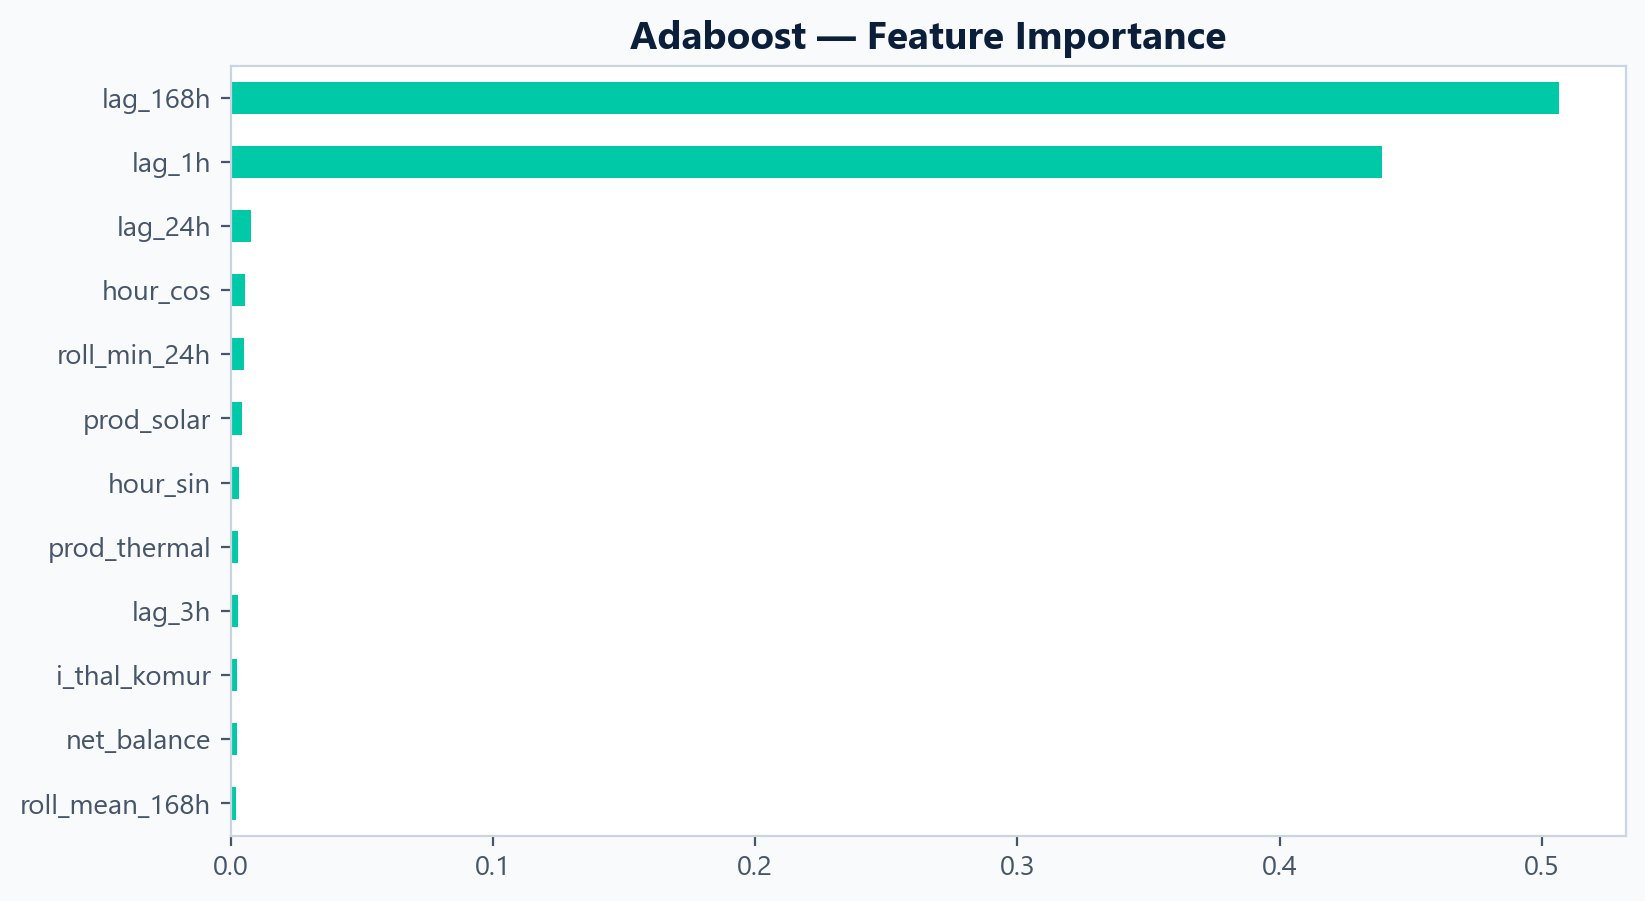
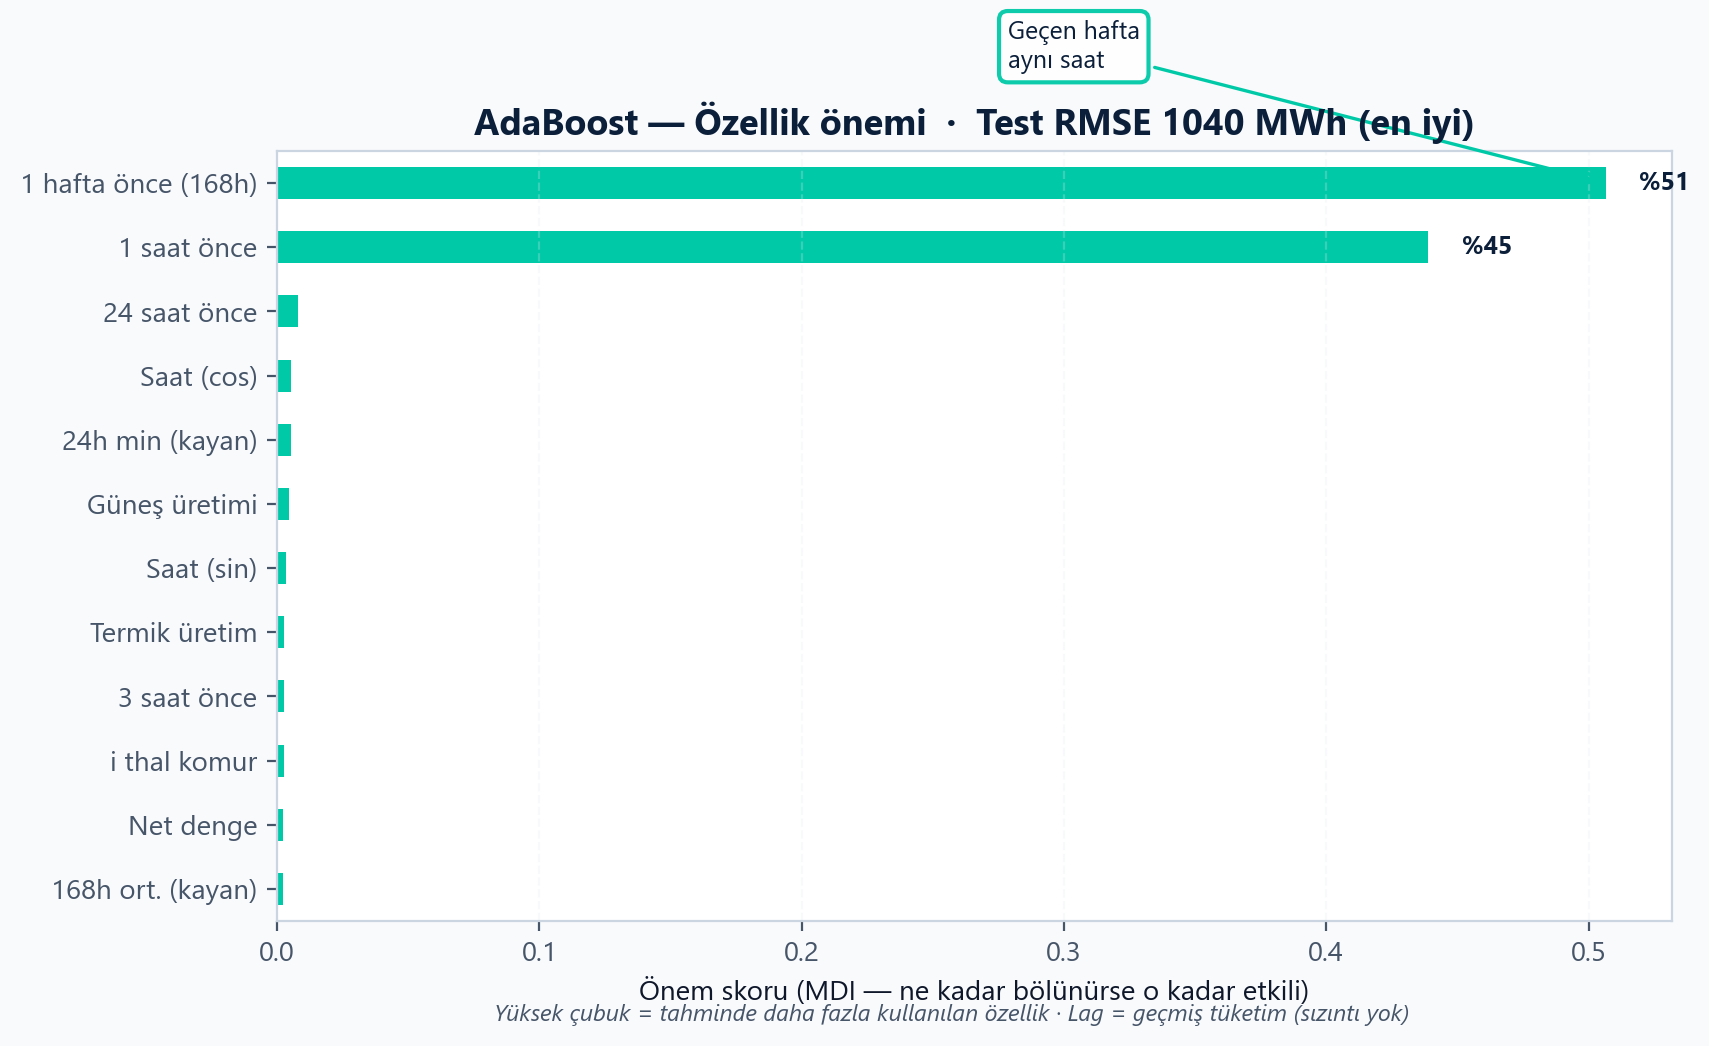
feat: annotated importance figures, combined model slide, restore assets

diff --git a/scripts/regenerate_slide_figures.py b/scripts/regenerate_slide_figures.py
@@ -23,6 +23,91 @@ from mee344_g05.ppt_theme import MPL_RC, NAVY, SKY, TEAL, AMBER, OFF_WHITE
 
 OUT = FIGURES_DIR / "presentation"
 
+# Sunum için okunabilir Türkçe etiketler
+FEATURE_LABELS = {
+    "lag_168h": "1 hafta önce (168h)",
+    "lag_1h": "1 saat önce",
+    "lag_2h": "2 saat önce",
+    "lag_3h": "3 saat önce",
+    "lag_24h": "24 saat önce",
+    "hour_cos": "Saat (cos)",
+    "hour_sin": "Saat (sin)",
+    "dow_sin": "Gün (sin)",
+    "dow_cos": "Gün (cos)",
+    "doy_sin": "Yıl günü (sin)",
+    "prod_solar": "Güneş üretimi",
+    "prod_thermal": "Termik üretim",
+    "prod_wind": "Rüzgar üretimi",
+    "roll_min_24h": "24h min (kayan)",
+    "roll_mean_24h": "24h ort. (kayan)",
+    "roll_mean_168h": "168h ort. (kayan)",
+    "ithal_komur": "İthal kömür",
+    "net_balance": "Net denge",
+    "is_weekend": "Hafta sonu",
+    "is_holiday": "Resmi tatil",
+}
+
+
+def _label_feature(name: str) -> str:
+    return FEATURE_LABELS.get(name, name.replace("_", " "))
+
+
+def _annotate_importance(ax, imp: pd.Series, color: str) -> None:
+    """Üst çubuklara değer ve kısa açıklama yaz."""
+    top = imp.sort_values(ascending=False).head(2)
+    for feat, val in top.items():
+        y_idx = list(imp.index).index(feat)
+        pct = val / imp.sum() * 100
+        ax.text(
+            val + imp.max() * 0.02,
+            y_idx,
+            f" %{pct:.0f}",
+            va="center",
+            fontsize=9,
+            fontweight="bold",
+            color=NAVY,
+        )
+    # En baskın özellik için ok + kutu
+    top_feat = top.index[0]
+    y0 = list(imp.index).index(top_feat)
+    note = "Geçen hafta\naynı saat" if top_feat == "lag_168h" else _label_feature(top_feat)
+    ax.annotate(
+        note,
+        xy=(top.iloc[0], y0),
+        xytext=(top.iloc[0] * 0.55, y0 + 1.8),
+        fontsize=9,
+        color=NAVY,
+        bbox=dict(boxstyle="round,pad=0.35", fc="white", ec=color, lw=1.5, alpha=0.95),
+        arrowprops=dict(arrowstyle="->", color=color, lw=1.2),
+    )
+
+
+def plot_importance(key: str, out: str, title_tr: str, bar_color: str) -> None:
+    b = joblib.load(MODELS_DIR / f"{key}.joblib")
+    m = b["model"]
+    cols = b["feature_columns"]
+    if not hasattr(m, "feature_importances_"):
+        return
+    imp_raw = pd.Series(m.feature_importances_, index=cols).sort_values().tail(12)
+    imp = imp_raw.rename(index=_label_feature)
+    fig, ax = plt.subplots(figsize=(9, 5))
+    imp.plot(kind="barh", ax=ax, color=bar_color)
+    ax.set_title(title_tr, fontweight="bold", fontsize=13)
+    ax.set_xlabel("Önem skoru (MDI — ne kadar bölünürse o kadar etkili)", fontsize=10)
+    ax.set_ylabel("")
+    ax.grid(axis="x", alpha=0.25, linestyle="--")
+    _annotate_importance(ax, imp_raw, bar_color)
+    fig.text(
+        0.5,
+        0.01,
+        "Yüksek çubuk = tahminde daha fazla kullanılan özellik · Lag = geçmiş tüketim (sızıntı yok)",
+        ha="center",
+        fontsize=8.5,
+        color="#475569",
+        style="italic",
+    )
+    savefig(out)
+
 
 def apply_style():
     plt.rcParams.update(MPL_RC)
@@ -123,17 +208,57 @@ def main():
     fig.suptitle("Test Set — Actual vs Predicted", fontweight="bold")
     savefig("actual_vs_pred_both.png")
 
-    # 7 Importance
-    for key, out in [("decision_tree", "dt_importance.png"), ("adaboost", "ada_importance.png")]:
+    # 7 Importance (Türkçe etiket + açıklama)
+    metrics = json.loads((REPORTS_DIR / "metrics.json").read_text(encoding="utf-8"))
+    dt_rmse = metrics["test"]["decision_tree"]["rmse"]
+    ada_rmse = metrics["test"]["adaboost"]["rmse"]
+    plot_importance(
+        "decision_tree",
+        "dt_importance.png",
+        f"Decision Tree — Özellik önemi  ·  Test RMSE {dt_rmse:.0f} MWh",
+        SKY,
+    )
+    plot_importance(
+        "adaboost",
+        "ada_importance.png",
+        f"AdaBoost — Özellik önemi  ·  Test RMSE {ada_rmse:.0f} MWh (en iyi)",
+        TEAL,
+    )
+
+    # İki grafik tek panel (slayt sağ yarı)
+    fig, axes = plt.subplots(2, 1, figsize=(10, 9))
+    for ax, key, title_tr, bar_color in [
+        (axes[0], "decision_tree", f"Decision Tree — RMSE {dt_rmse:.0f} MWh", SKY),
+        (axes[1], "adaboost", f"AdaBoost — RMSE {ada_rmse:.0f} MWh", TEAL),
+    ]:
         b = joblib.load(MODELS_DIR / f"{key}.joblib")
-        m = b["model"]
-        cols = b["feature_columns"]
-        if hasattr(m, "feature_importances_"):
-            imp = pd.Series(m.feature_importances_, index=cols).sort_values().tail(12)
-            fig, ax = plt.subplots(figsize=(9, 5))
-            imp.plot(kind="barh", ax=ax, color=TEAL if "ada" in out else SKY)
-            ax.set_title(f"{key.replace('_', ' ').title()} — Feature Importance", fontweight="bold")
-            savefig(out)
+        imp_raw = pd.Series(b["model"].feature_importances_, index=b["feature_columns"]).sort_values().tail(10)
+        imp = imp_raw.rename(index=_label_feature)
+        imp.plot(kind="barh", ax=ax, color=bar_color)
+        ax.set_title(title_tr, fontweight="bold", fontsize=11)
+        ax.set_xlabel("Önem (MDI)", fontsize=9)
+        ax.grid(axis="x", alpha=0.2, linestyle="--")
+        top = imp_raw.sort_values(ascending=False).head(1)
+        ax.text(
+            0.98,
+            0.08,
+            f"En güçlü: {_label_feature(top.index[0])}\n(%{top.iloc[0] / imp_raw.sum() * 100:.0f} katkı)",
+            transform=ax.transAxes,
+            ha="right",
+            va="bottom",
+            fontsize=8.5,
+            bbox=dict(boxstyle="round", fc="white", ec=bar_color, alpha=0.9),
+        )
+    fig.suptitle("Hangi özellikler tüketimi taşıyor?", fontweight="bold", fontsize=13, y=0.98)
+    fig.text(
+        0.5,
+        0.01,
+        "Her iki modelde lag_168h (1 hafta) baskın; AdaBoost lag_1h’i de aktif kullanır → daha düşük hata",
+        ha="center",
+        fontsize=9,
+        color="#475569",
+    )
+    savefig("dt_ada_importance_panel.png")
 
     # Copy interpretation if exists
     for src, dst in [

diff --git a/scripts/build_pptx.py b/scripts/build_pptx.py
@@ -174,6 +174,56 @@ def slide_agenda(prs):
         txt(s, SW - Inches(1.8), top + Inches(0.28), Inches(1.2), Inches(0.35), dur, 11, False, C_SKY, PP_ALIGN.RIGHT)
 
 
+def slide_model_importance(prs, test: dict) -> None:
+    """Decision Tree + AdaBoost — sol metin, sağda importance grafikleri."""
+    s = blank(prs)
+    dt, ada = test["decision_tree"], test["adaboost"]
+    imp_pct = (1 - ada["rmse"] / dt["rmse"]) * 100
+    header(
+        s,
+        "Decision Tree & AdaBoost",
+        f"Test RMSE DT {dt['rmse']:.0f} MWh · AdaBoost {ada['rmse']:.0f} MWh",
+    )
+    footer(s)
+    rnd(s, M, CT, Inches(5.55), Inches(5.35), C_OFF)
+    bullets(
+        s,
+        M + Inches(0.15),
+        CT + Inches(0.12),
+        Inches(5.25),
+        Inches(5.1),
+        [
+            "Decision Tree — tek ağaç, yorumlanabilir baseline",
+            "Neredeyse tüm karar: lag_168h (geçen hafta aynı saat)",
+            "lag_1h ikincil; üretim / saat özellikleri düşük MDI",
+            "",
+            "AdaBoost — 200 zayıf öğrenici → güçlü ensemble",
+            "lag_168h + lag_1h birlikte (haftalık + saatlik döngü)",
+            f"RMSE: {dt['rmse']:.0f} → {ada['rmse']:.0f} MWh (~%{imp_pct:.0f} iyileşme)",
+            f"R²: {dt['r2']:.3f} → {ada['r2']:.3f} · MAPE {ada['mape']:.2f}%",
+        ],
+        11,
+    )
+    panel = FIG / "dt_ada_importance_panel.png"
+    if panel.exists():
+        pic(s, panel, Inches(5.95), CT - Inches(0.05), Inches(7.0))
+    else:
+        pic(s, FIG / "dt_importance.png", Inches(6.1), CT, Inches(6.9))
+        pic(s, FIG / "ada_importance.png", Inches(6.1), CT + Inches(2.75), Inches(6.9))
+        txt(
+            s,
+            Inches(6.1),
+            CT + Inches(2.48),
+            Inches(6.9),
+            Inches(0.25),
+            "Üst: Decision Tree · Alt: AdaBoost — özellik önemi (MDI)",
+            9,
+            False,
+            C_SLATE,
+            PP_ALIGN.CENTER,
+        )
+
+
 def content(prs, title, sub, items, img_name, img_w=Inches(6)):
     s = blank(prs)
     header(s, title, sub)
@@ -330,12 +380,7 @@ def main():
     section(prs, "04", "Sonuçlar", "Test performansı", "bg_section_04.png")
     kpi_dashboard(prs, metrics)
     metrics_table_slide(prs, metrics)
-    content(prs, "Decision Tree", f"Test RMSE {test['decision_tree']['rmse']:.0f} MWh",
-            [f"R² = {test['decision_tree']['r2']:.3f}", "max_depth=8", "Baseline üstü"],
-             "dt_importance.png")
-    content(prs, "AdaBoost", f"Test RMSE {test['adaboost']['rmse']:.0f} MWh — en iyi",
-            [f"R² = {test['adaboost']['r2']:.3f}", "MAPE 1.67%", "DT'ye göre ~21% RMSE iyileşme"],
-             "ada_importance.png")
+    slide_model_importance(prs, test)
     s = blank(prs)
     header(s, "Tahmin Kalitesi", "14 günlük hold-out")
     footer(s)
@@ -355,7 +400,12 @@ def main():
 
     SLIDES_DIR.mkdir(parents=True, exist_ok=True)
     out = SLIDES_DIR / "G05_STLF_DT_AdaBoost.pptx"
-    prs.save(out)
+    try:
+        prs.save(out)
+    except PermissionError:
+        out = SLIDES_DIR / "G05_STLF_DT_AdaBoost_NEW.pptx"
+        prs.save(out)
+        print("Ana dosya açık — yeni dosyaya kaydedildi.")
     print(f"Saved {len(prs.slides)} slides -> {out}")
 
 